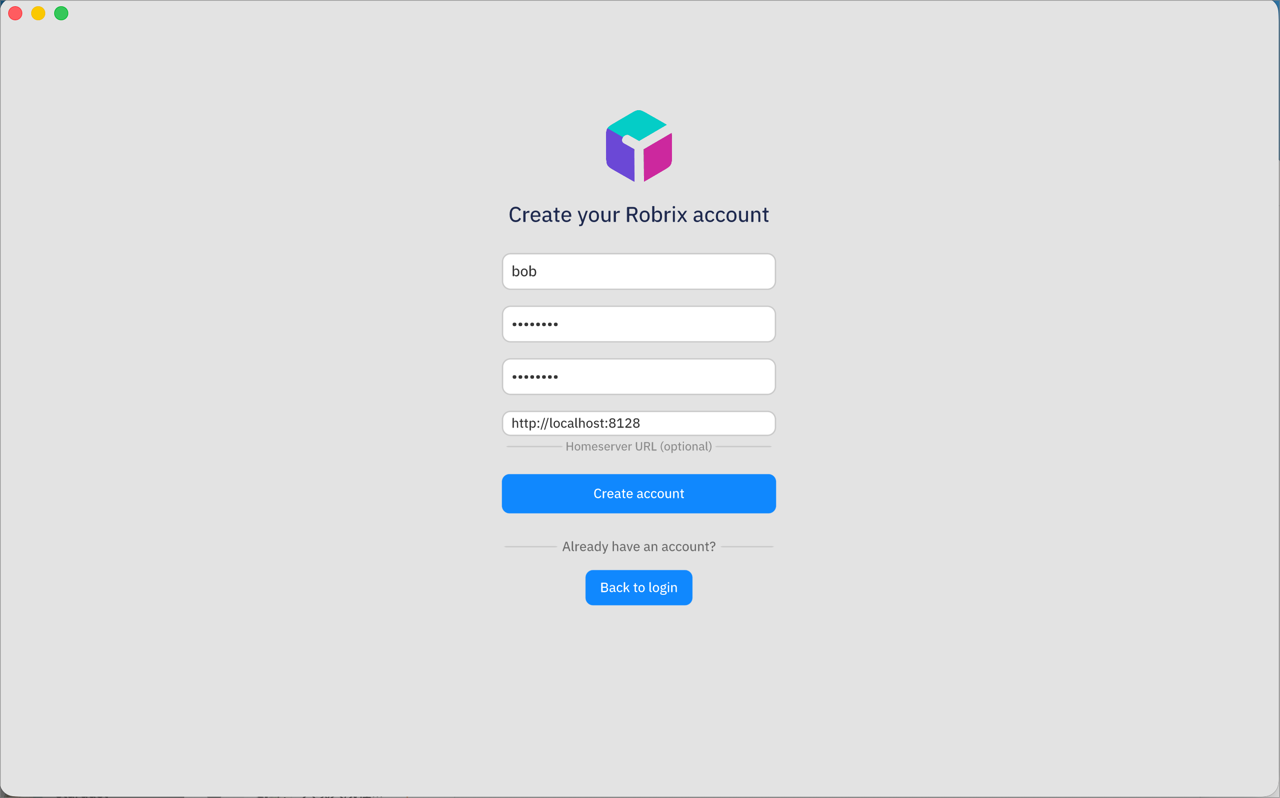
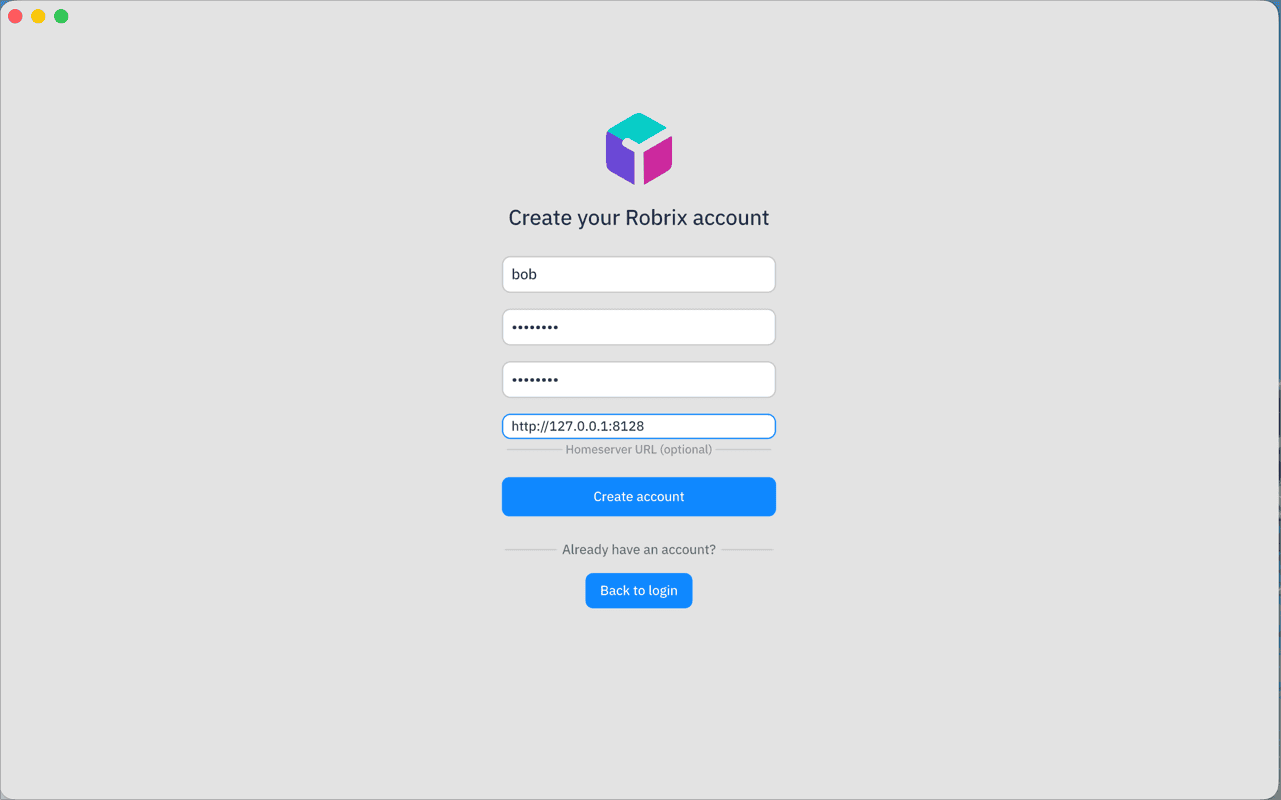
docs: add screenshots, bot naming rules, extract palpo.Dockerfile
- Add login screen and registration screenshots (compressed via pngquant)
- Add bot naming explanation in usage guide Section 5.2
- Extract Palpo Dockerfile from compose.yml inline to standalone file
- Update compose.yml to reference palpo.Dockerfile

diff --git a/docs/robrix-with-palpo-and-octos/03-using-robrix-with-palpo-and-octos.md b/docs/robrix-with-palpo-and-octos/03-using-robrix-with-palpo-and-octos.md
@@ -37,7 +37,7 @@ When you open Robrix, the login screen appears. By default, Robrix connects to `
 2. Enter `http://127.0.0.1:8128` for a local deployment.
 3. For a remote server, enter `https://your.server.name` or `http://server-ip:8128`.
 
-<!-- screenshot: login-homeserver.png — Robrix login screen with Homeserver URL field highlighted at the bottom -->
+![Robrix login screen — enter your Homeserver URL at the bottom](../images/login-screen.png)
 
 > **Note:** If the Homeserver URL field is left empty, Robrix connects to `matrix.org` by default. You must fill it in to reach your own Palpo server.
 
@@ -94,7 +94,20 @@ This is the main workflow: create a room, invite the bot, and start a conversati
 
 <!-- screenshot: invite-bot.png — Invite dialog with @octosbot:127.0.0.1:8128 entered -->
 
-> **Tip:** If you deployed with a different `server_name`, replace `127.0.0.1:8128` in the bot ID accordingly. For example, on a server with `server_name = chat.example.com`, the bot ID would be `@octosbot:chat.example.com`.
+> **How is this bot name determined?** The BotFather's Matrix ID is assembled from two config values:
+>
+> | Part | Value | Configured in |
+> |------|-------|---------------|
+> | Username (localpart) | `octosbot` | `sender_localpart` in `octos-registration.yaml` and `botfather.json` |
+> | Server domain | `127.0.0.1:8128` | `server_name` in `palpo.toml` |
+> | **Full Matrix ID** | **`@octosbot:127.0.0.1:8128`** | |
+> | Display name (shown in rooms) | `BotFather` | `name` in `botfather.json` |
+>
+> Child bots created via `/createbot` follow a similar pattern. The `user_prefix` field in `botfather.json` (default: `octosbot_`) is automatically prepended to the username you specify:
+>
+> `/createbot weather Weather Bot` → Matrix ID: `@octosbot_weather:127.0.0.1:8128`
+>
+> If you change `server_name` in production, all bot IDs change accordingly. You must also update the namespace regex in `octos-registration.yaml` to match.
 
 ### 5.3 Start Chatting
 

diff --git a/docs/robrix/getting-started-with-robrix-zh.md b/docs/robrix/getting-started-with-robrix-zh.md
@@ -6,12 +6,6 @@
 
 Robrix 是一个用 Rust 编写的跨平台 Matrix 聊天客户端，基于 [Makepad](https://github.com/makepad/makepad/) UI 框架。原生运行在 macOS、Linux、Windows、Android 和 iOS 上。
 
----
-
-## 下载预编译版本（推荐）
-
-从 [Robrix 发布页面](https://github.com/Project-Robius-China/robrix2/releases) 下载最新版本。支持 macOS、Linux 和 Windows。
-
 ## 从源码构建
 
 ### 前提条件
@@ -39,6 +33,8 @@ Android 和 iOS 构建方法请参考 [Robrix README — 构建与运行](https:
 ## 连接 Matrix 服务器
 
 启动 Robrix 后，登录界面底部有一个 **Homeserver URL** 输入框。
+
+![Robrix 登录界面](../images/login-screen.png)
 
 - **留空** 默认连接 `matrix.org`（公共服务器）
 - **输入自定义 URL** 连接其他 Matrix 兼容服务器：

diff --git a/docs/robrix-with-palpo-and-octos/01-deploying-palpo-and-octos-zh.md b/docs/robrix-with-palpo-and-octos/01-deploying-palpo-and-octos-zh.md
@@ -125,7 +125,7 @@ palpo-and-octos-deploy/
 ├── setup.sh                            # 一次性初始化脚本
 ├── .env.example                        # 环境变量模板
 ├── palpo.toml                          # Palpo 主服务器配置
-├── palpo.Dockerfile                    # Palpo 构建指令（多架构支持）
+├── palpo.Dockerfile                    # Palpo Docker 构建（多阶段，release 模式）
 ├── appservices/
 │   └── octos-registration.yaml         # 应用服务注册文件（连接 Palpo <-> Octos）
 ├── config/

diff --git a/docs/robrix-with-palpo-and-octos/01-deploying-palpo-and-octos.md b/docs/robrix-with-palpo-and-octos/01-deploying-palpo-and-octos.md
@@ -125,7 +125,7 @@ palpo-and-octos-deploy/
 ├── setup.sh                            # One-time setup script
 ├── .env.example                        # Environment variables template
 ├── palpo.toml                          # Palpo homeserver configuration
-├── palpo.Dockerfile                    # Palpo build instructions (multi-arch)
+├── palpo.Dockerfile                    # Palpo Docker build (multi-stage, release)
 ├── appservices/
 │   └── octos-registration.yaml         # Appservice registration (links Palpo <-> Octos)
 ├── config/

diff --git a/docs/robrix/getting-started-with-robrix.md b/docs/robrix/getting-started-with-robrix.md
@@ -40,6 +40,8 @@ For Android and iOS builds, see the [Robrix README — Building & Running](https
 
 When you launch Robrix, you'll see the login screen with a **Homeserver URL** field at the bottom.
 
+![Robrix login screen](../images/login-screen.png)
+
 - **Leave it empty** to connect to `matrix.org` (the default public server)
 - **Enter a custom URL** to connect to any Matrix-compatible server:
   - Local Palpo instance: `http://127.0.0.1:8128`
